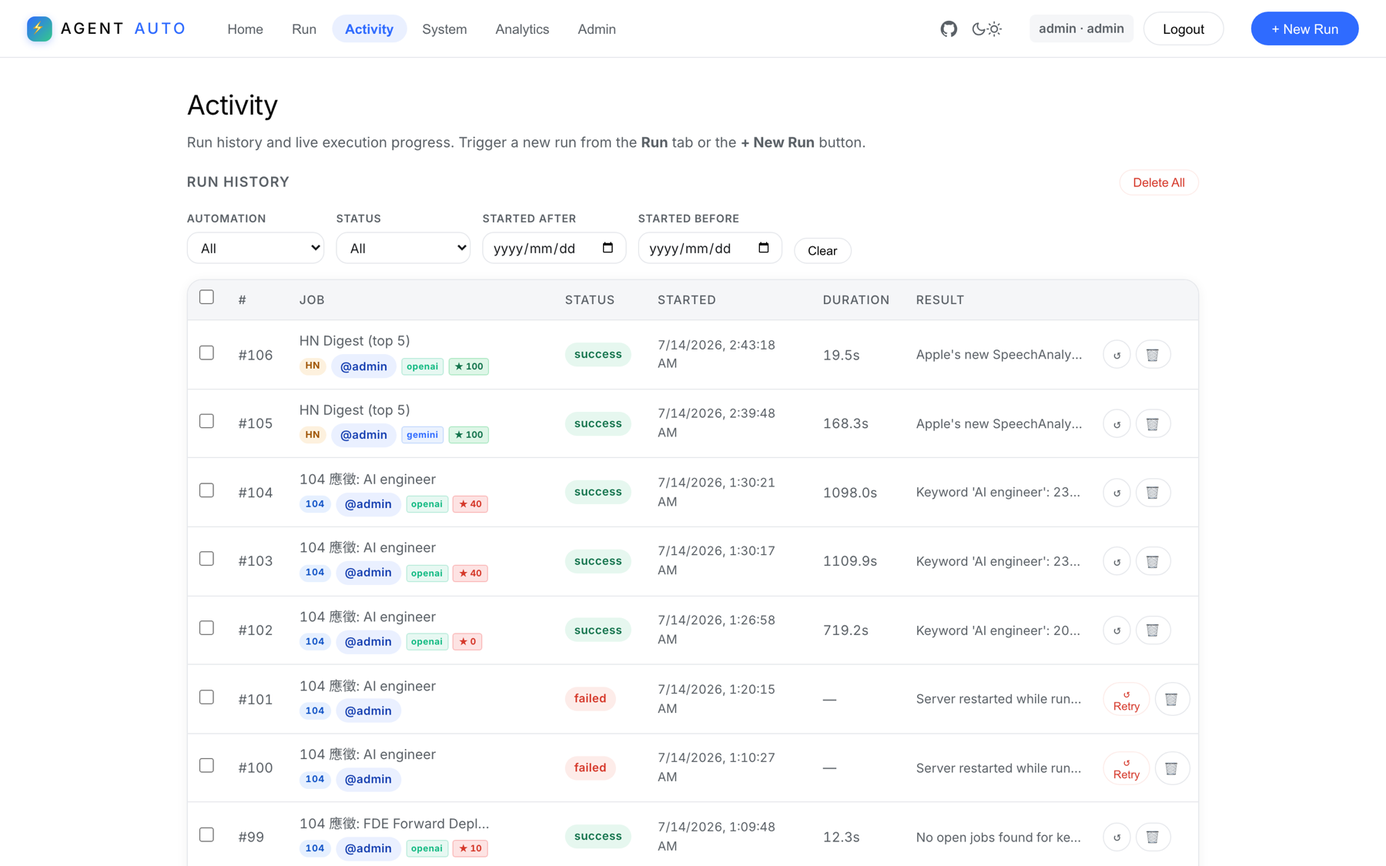
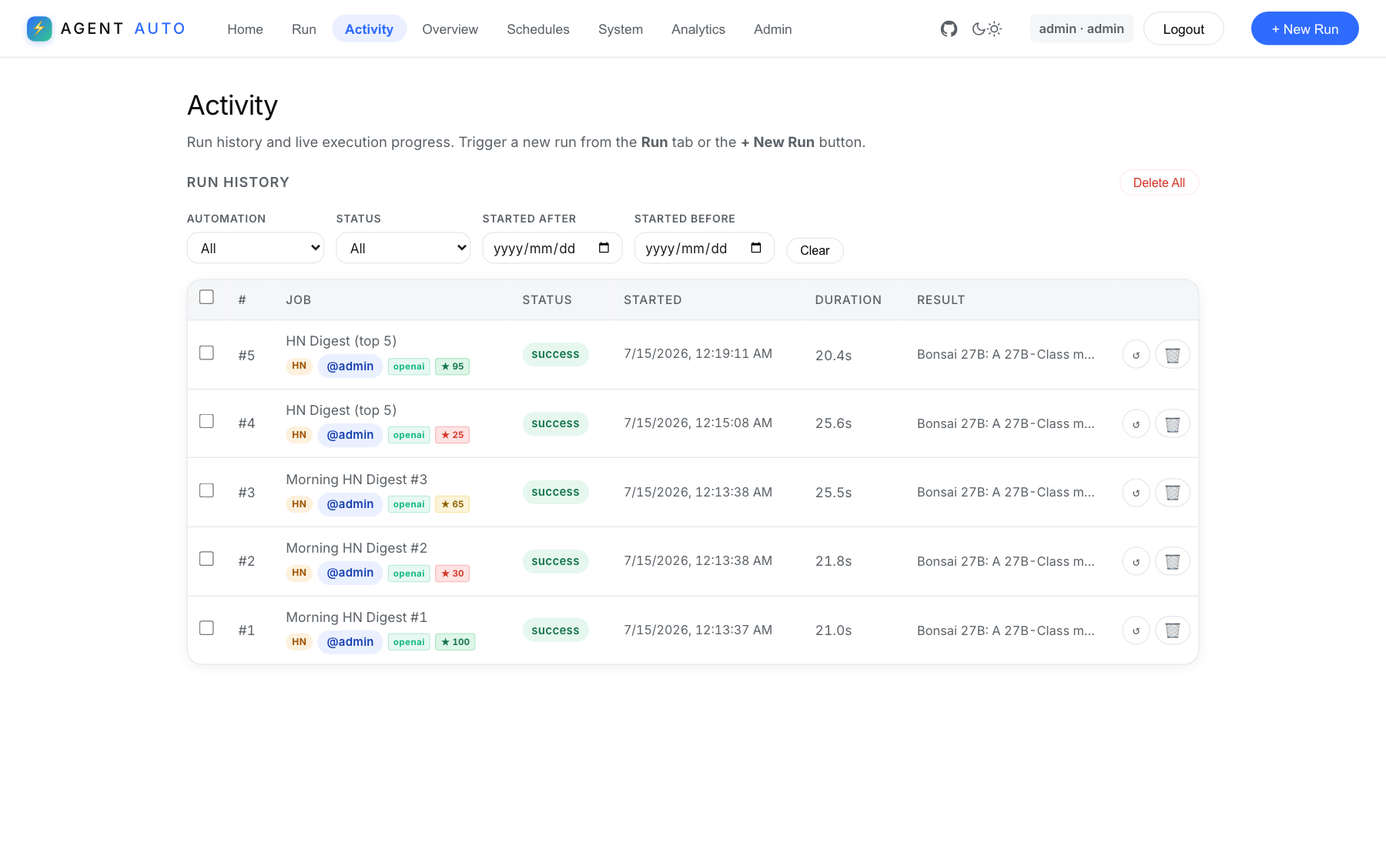
docs(site): expand tutorials with detailed steps + real screenshots (EN/中)
Enhance both docs pages with screenshot-driven walkthroughs captured from
the running app, in English and Traditional Chinese.

Developer guide (index.html): grow from 3 to 4 parts with a contents strip —
Set up & launch, Run your first automation (now covering the self-check /
retry / fallback loop and the Result/Flow/Log/Usage tabs), plus two new
parts: Track/retry/schedule (run history, Overview grid, cron) and
Administer/explore (users, encrypted keys, task toggles + judge model,
System catalog).

For-everyone page (for-you.html): add a "See it in action" visual
walkthrough (pick → fill → run → read) — previously had no screenshots.

i18n: add/update all zh-Hant strings; every data-i18n key on both pages
has a Chinese translation. Refresh 7 guide screenshots and add 6 new ones
(overview, schedules, system, admin users/keys/automations).

diff --git a/docs/index.html b/docs/index.html
@@ -301,6 +301,22 @@
   .anote code { font-family: var(--mono); font-size: 0.86em; color: #bcd0ff; background: rgba(47,107,255,0.14); padding: 1px 6px; border-radius: 5px; }
 
   /* ── Guide ── */
+  .guide-toc { display: grid; grid-template-columns: repeat(4, 1fr); gap: 12px; margin-bottom: 56px; }
+  @media (max-width: 820px) { .guide-toc { grid-template-columns: repeat(2, 1fr); } }
+  @media (max-width: 460px) { .guide-toc { grid-template-columns: 1fr; } }
+  .toc-item {
+    display: flex; align-items: center; gap: 12px; padding: 14px 16px;
+    background: var(--surface); border: 1px solid var(--border); border-radius: 12px;
+    color: var(--text); font-size: 14px; font-weight: 500; box-shadow: var(--shadow-rest);
+    transition: transform .25s var(--ease), box-shadow .25s var(--ease), border-color .25s var(--ease);
+  }
+  .toc-item:hover { transform: translateY(-2px); box-shadow: var(--shadow-hover); border-color: var(--accent); color: var(--ink); }
+  .toc-n {
+    width: 26px; height: 26px; border-radius: 50%; flex-shrink: 0; display: grid; place-items: center;
+    background: var(--accent); color: #fff; font-family: var(--mono); font-size: 12px; font-weight: 600;
+  }
+  .toc-n.moss { background: var(--moss); }
+  .toc-n.ink { background: var(--ink); }
   .guide-part { margin-bottom: 64px; }
   .guide-part:last-child { margin-bottom: 0; }
   .part-label {
@@ -595,7 +611,15 @@
     <div class="sec-head center reveal">
       <span class="kicker" data-i18n="guide.kicker">Guide</span>
       <h2 data-i18n="guide.h2">From zero to your <b>first scored run</b></h2>
-      <p class="lede" data-i18n="guide.lede">Download it, add a single AI key, and run a real automation in a few minutes. The walkthrough below uses real screenshots of the running app.</p>
+      <p class="lede" data-i18n="guide.lede">Download it, add a single AI key, and run a real automation in a few minutes — then learn to schedule, track, and administer it. Every step below uses real screenshots of the running app.</p>
+    </div>
+
+    <!-- Contents -->
+    <div class="guide-toc reveal">
+      <a href="#guide" class="toc-item"><span class="toc-n">1</span><span data-i18n="guide.toc.1">Set up &amp; launch</span></a>
+      <a href="#guide" class="toc-item"><span class="toc-n moss">2</span><span data-i18n="guide.toc.2">Run your first automation</span></a>
+      <a href="#guide" class="toc-item"><span class="toc-n">3</span><span data-i18n="guide.toc.3">Track, retry &amp; schedule</span></a>
+      <a href="#guide" class="toc-item"><span class="toc-n ink">4</span><span data-i18n="guide.toc.4">Administer &amp; explore</span></a>
     </div>
 
     <!-- Part 1 — Setup -->
@@ -669,45 +693,94 @@
           <div class="gnum">3</div>
           <div class="gbody">
             <h4 data-i18n="guide.p2.s3.h">Watch it run — live</h4>
-            <p data-i18n="guide.p2.s3.p">Hit <b>Run ▶</b> and you land on <b>Activity</b>. A live stream updates the step graph (Start → Validate → Fetch → Digest → Verify → Evaluate → Done) and adds log lines every half-second.</p>
-            <figure class="figure"><img src="assets/guide/05-running.png" alt="Live progress with step graph and streaming log" loading="lazy"/><figcaption data-i18n="guide.p2.s3.cap">Live progress — step graph on top, detailed log below</figcaption></figure>
+            <p data-i18n="guide.p2.s3.p">Hit <b>Run ▶</b> and you land on <b>Activity</b>. A half-second SSE stream lights up the step graph in order — <b>Start → Validate → Fetch → Digest → Verify → Evaluate → Done</b> — and appends log lines as they happen. Each node turns green as it completes and shows how long it took.</p>
+            <div class="note"><span class="ni">🔁</span><span data-i18n="guide.p2.s3.note">The <b>Validate</b> and <b>Verify</b> steps are the self-check: a rule inspects the output and, if it fails while retries remain, the task re-runs with the error handed back to the AI. A brief provider outage (503/429) silently falls back to a sibling model — you don't lose the run.</span></div>
+            <figure class="figure"><img src="assets/guide/05-running.png" alt="Live progress with step graph and streaming log" loading="lazy"/><figcaption data-i18n="guide.p2.s3.cap">Live progress — the step graph on top, the streaming log below</figcaption></figure>
           </div>
         </div>
         <div class="gstep">
           <div class="gnum">4</div>
           <div class="gbody">
             <h4 data-i18n="guide.p2.s4.h">Read the scored result</h4>
-            <p data-i18n="guide.p2.s4.p">When the run finishes, expand it to see the structured result under <b>Result</b>, plus <b>Flow</b>, <b>Log</b>, and <b>Usage</b> tabs and a <b>Copy JSON</b> button. An independent judge scored this run <b>★100</b>.</p>
-            <div class="note"><span class="ni">✅</span><span data-i18n="guide.p2.s4.note">This exact run: <code>hacker_news_digest</code> on <code>gpt-4o-mini</code> — finished in <b>19.5&nbsp;s</b>, checked, and scored <b>100/100</b> by an independent judge model.</span></div>
-            <figure class="figure"><img src="assets/guide/07-result-detail.png" alt="Expanded run result showing structured digest" loading="lazy"/><figcaption data-i18n="guide.p2.s4.cap">The digest result — <code>story_of_the_day</code> plus per-story title, score, url &amp; summary</figcaption></figure>
+            <p data-i18n="guide.p2.s4.p">When the run finishes, click the row to expand it. The <b>Result</b> tab holds the structured JSON; <b>Flow</b> shows the step timeline, <b>Log</b> the full stream, and <b>Usage</b> the model, tokens, and estimated cost. <b>Copy JSON</b> lifts the whole result to your clipboard. The green <b>★</b> badge is the independent judge's score.</p>
+            <div class="note"><span class="ni">✅</span><span data-i18n="guide.p2.s4.note">This exact run: <code>hacker_news_digest</code> on <code>gpt-4o-mini</code> — finished in <b>21&nbsp;s</b>, passed validation, and was scored <b>100/100</b> by an independent judge model (never the one that wrote the answer).</span></div>
+            <figure class="figure"><img src="assets/guide/07-result-detail.png" alt="Expanded run result showing structured digest" loading="lazy"/><figcaption data-i18n="guide.p2.s4.cap">The expanded run — status, provider &amp; ★ score on the row, structured <code>story_of_the_day</code> + per-story fields below</figcaption></figure>
           </div>
         </div>
       </div>
     </div>
 
-    <!-- Part 3 — Key features -->
+    <!-- Part 3 — Track, retry & schedule -->
     <div class="guide-part reveal">
-      <div class="part-label"><span class="pill-n ink">3</span><h3 data-i18n="guide.p3.label">Explore the key features</h3></div>
-      <p class="lede" style="margin-bottom:28px;max-width:60ch" data-i18n="guide.p3.intro">Once you have a few runs in, the rest of the app comes alive. Here's what to look at next.</p>
-      <div class="feat-grid">
-        <div class="feat">
-          <img src="assets/guide/06-result.png" alt="Run history with statuses, scores, and retry" loading="lazy"/>
-          <div class="fb"><h4 data-i18n="guide.p3.f1.h">Run history &amp; self-correcting retries</h4><p data-i18n="guide.p3.f1.p">Every run carries a status, a provider badge, and a quality score. Failed runs (e.g. "Server restarted while running") show a one-click <b>Retry</b> — and the previous error is handed back so the AI can fix itself.</p></div>
+      <div class="part-label"><span class="pill-n ink">3</span><h3 data-i18n="guide.p3.label">Track, retry &amp; schedule</h3></div>
+      <p class="lede" style="margin-bottom:28px;max-width:60ch" data-i18n="guide.p3.intro">A few runs in, the operational side comes alive: browse history, compare runs at a glance, and put a job on a cron so it runs itself.</p>
+      <div class="gsteps">
+        <div class="gstep">
+          <div class="gnum">1</div>
+          <div class="gbody">
+            <h4 data-i18n="guide.p3.s1.h">Browse run history &amp; retry failures</h4>
+            <p data-i18n="guide.p3.s1.p">The <b>Activity</b> table lists every run with its status, who ran it, the provider, a <b>★</b> quality score, duration, and a result preview. Filter by automation, status, or date. A <b>low score doesn't mean failure</b> — the run still succeeded; the score is your signal to double-check. Any failed run gets a one-click <b>↺ Retry</b> that hands the previous error back to the AI.</p>
+            <figure class="figure"><img src="assets/guide/06-result.png" alt="Run history table with scores, providers, and retry" loading="lazy"/><figcaption data-i18n="guide.p3.s1.cap">Run history — statuses, provider badges, and ★ scores from 25 to 100 across five real runs</figcaption></figure>
+          </div>
         </div>
-        <div class="feat">
-          <img src="assets/demo_2_4.png" alt="Analytics by provider and model" loading="lazy"/>
-          <div class="fb"><h4 data-i18n="guide.p3.f2.h">Analytics — cost &amp; quality</h4><p data-i18n="guide.p3.f2.p">The <b>Analytics</b> tab breaks runs down by task and by provider/model: success rate, average score, tokens, estimated cost, and average duration — all totalled server-side.</p></div>
+        <div class="gstep">
+          <div class="gnum">2</div>
+          <div class="gbody">
+            <h4 data-i18n="guide.p3.s2.h">Compare runs on the Overview grid</h4>
+            <p data-i18n="guide.p3.s2.p">The <b>Overview</b> tab is an Airflow-style grid: pick an automation and every run becomes a column, every step a row. Green is success, red failed, blue running, grey pending. Click any cell to jump to that step's log — perfect for spotting exactly where a run went sideways.</p>
+            <figure class="figure"><img src="assets/guide/08-overview.png" alt="Airflow-style task overview grid of steps across runs" loading="lazy"/><figcaption data-i18n="guide.p3.s2.cap">Task Overview — every step of every run, side by side (5 runs · 5 ok · 0 failed)</figcaption></figure>
+          </div>
         </div>
-        <div class="feat">
-          <img src="assets/demo_2_3.png" alt="System catalog of agents, tools, and crews" loading="lazy"/>
-          <div class="fb"><h4 data-i18n="guide.p3.f3.h">System catalog</h4><p data-i18n="guide.p3.f3.p">Inspect every agent, tool, and crew — roles, goals, backstories, and the real source config — straight from the <b>System</b> tab. Great for seeing how each automation is wired.</p></div>
-        </div>
-        <div class="feat">
-          <img src="assets/demo_2_5.png" alt="Admin page for users, keys, and toggles" loading="lazy"/>
-          <div class="fb"><h4 data-i18n="guide.p3.f4.h">Admin — users, keys &amp; switches</h4><p data-i18n="guide.p3.f4.p">Create users and choose which automations each may run, store encrypted API keys, pick the judge model, and turn task types on or off system-wide.</p></div>
+        <div class="gstep">
+          <div class="gnum">3</div>
+          <div class="gbody">
+            <h4 data-i18n="guide.p3.s3.h">Schedule it to run automatically</h4>
+            <p data-i18n="guide.p3.s3.p">Add a <b>cron expression</b> in the New Run dialog (or the presets dropdown) and the job is saved instead of run once — the built-in scheduler fires it on time, in UTC. The <b>Schedules</b> tab shows each job's cron, next fire time, run count, and last result, with <b>Run now</b>, <b>Edit</b>, and <b>Unschedule</b> controls.</p>
+            <figure class="figure"><img src="assets/guide/09-schedules.png" alt="Schedules tab with a daily cron job" loading="lazy"/><figcaption data-i18n="guide.p3.s3.cap">Schedules — a daily 08:00 UTC HN digest with its next-run time</figcaption></figure>
+          </div>
         </div>
       </div>
-      <div class="note" style="margin-top:24px"><span class="ni">🐳</span><span data-i18n="guide.p3.docker">Prefer containers? One command: <code>docker compose up --build -d</code>, then open <code>http://localhost:7000</code>. See the repo's <a href="https://github.com/yennanliu/agent_auto_system#docker-quick-start">Docker quick start</a> and <a href="https://github.com/yennanliu/agent_auto_system/blob/main/doc/aws-ecs-fargate-deployment.md">AWS ECS Fargate guide</a>.</span></div>
+    </div>
+
+    <!-- Part 4 — Administer & explore -->
+    <div class="guide-part reveal">
+      <div class="part-label"><span class="pill-n">4</span><h3 data-i18n="guide.p4.label">Administer &amp; explore</h3></div>
+      <p class="lede" style="margin-bottom:28px;max-width:60ch" data-i18n="guide.p4.intro">The <b>Admin</b> and <b>System</b> tabs are where you manage people, keys, and which tasks are live — and see exactly how each automation is wired.</p>
+      <div class="gsteps">
+        <div class="gstep">
+          <div class="gnum">1</div>
+          <div class="gbody">
+            <h4 data-i18n="guide.p4.s1.h">Create users &amp; scope their permissions</h4>
+            <p data-i18n="guide.p4.s1.p">Under <b>Admin → Users</b>, add teammates and choose exactly which automations each may run (or make them an admin). Accounts can be disabled, have passwords reset, or be deleted — and the app refuses to remove the last active admin.</p>
+            <figure class="figure"><img src="assets/guide/12-admin-users.png" alt="Admin users table with roles and allowed automations" loading="lazy"/><figcaption data-i18n="guide.p4.s1.cap">Admin → Users — roles, status, and per-user allowed automations</figcaption></figure>
+          </div>
+        </div>
+        <div class="gstep">
+          <div class="gnum">2</div>
+          <div class="gbody">
+            <h4 data-i18n="guide.p4.s2.h">Store API keys, encrypted</h4>
+            <p data-i18n="guide.p4.s2.p">Rather than editing <code>.env</code>, paste provider keys under <b>Admin → LLM Keys</b>. They're stored <b>Fernet-encrypted</b> and only decrypted at run time, overriding the environment. Each provider shows a <b>configured</b> / <b>not set</b> badge, whether the value came from <b>env</b>, and a masked preview.</p>
+            <figure class="figure"><img src="assets/guide/13-admin-keys.png" alt="Admin LLM keys panel with configured providers" loading="lazy"/><figcaption data-i18n="guide.p4.s2.cap">Admin → LLM Keys — OpenAI &amp; Gemini configured from env, Anthropic not set</figcaption></figure>
+          </div>
+        </div>
+        <div class="gstep">
+          <div class="gnum">3</div>
+          <div class="gbody">
+            <h4 data-i18n="guide.p4.s3.h">Toggle tasks &amp; pick the judge model</h4>
+            <p data-i18n="guide.p4.s3.p">The <b>Automations</b> tab is the master switch: a disabled task can't be created or run by <em>anyone</em>, admins included. Under <b>Verification LLM</b> you choose the independent judge model — kept separate from the models that produce results, so scores stay honest.</p>
+            <figure class="figure"><img src="assets/guide/14-admin-automations.png" alt="Admin automations toggles for every task type" loading="lazy"/><figcaption data-i18n="guide.p4.s3.cap">Admin → Automations — a system-wide on/off switch for every task type</figcaption></figure>
+          </div>
+        </div>
+        <div class="gstep">
+          <div class="gnum">4</div>
+          <div class="gbody">
+            <h4 data-i18n="guide.p4.s4.h">Inspect the System catalog &amp; Analytics</h4>
+            <p data-i18n="guide.p4.s4.p">The <b>System</b> tab exposes every agent, tool, crew, and workflow — roles, goals, backstories, and the real source config — so you can see how an automation is built without reading the repo. The <b>Analytics</b> tab totals runs, success rate, average score, tokens, and estimated cost, plus an eval-trust panel (independent-judge rate, retry/fallback rate, validation pass).</p>
+            <figure class="figure"><img src="assets/guide/10-system.png" alt="System catalog listing agents by automation" loading="lazy"/><figcaption data-i18n="guide.p4.s4.cap">System catalog — Agents, Tools, Crews &amp; Workflows, each tied to its automation</figcaption></figure>
+          </div>
+        </div>
+      </div>
+      <div class="note" style="margin-top:24px"><span class="ni">🐳</span><span data-i18n="guide.p4.docker">Prefer containers? One command: <code>docker compose up --build -d</code>, then open <code>http://localhost:7000</code>. See the repo's <a href="https://github.com/yennanliu/agent_auto_system#docker-quick-start">Docker quick start</a> and <a href="https://github.com/yennanliu/agent_auto_system/blob/main/doc/aws-ecs-fargate-deployment.md">AWS ECS Fargate guide</a>.</span></div>
     </div>
   </div>
 </section>

diff --git a/docs/assets/i18n.index.zh.js b/docs/assets/i18n.index.zh.js
@@ -127,7 +127,12 @@ window.I18N_ZH = {
 
   "guide.kicker": "上手指南",
   "guide.h2": "從零到你的<b>第一次評分執行</b>",
-  "guide.lede": "下載、加入一把 AI 金鑰，幾分鐘內就能跑一個真正的自動化。以下步驟採用實際執行畫面的截圖。",
+  "guide.lede": "下載、加入一把 AI 金鑰，幾分鐘內就能跑一個真正的自動化 —— 接著學會排程、追蹤與管理它。以下每一步都採用實際執行畫面的截圖。",
+
+  "guide.toc.1": "安裝與啟動",
+  "guide.toc.2": "跑你的第一個自動化",
+  "guide.toc.3": "追蹤、重試與排程",
+  "guide.toc.4": "管理與探索",
 
   "guide.p1.label": "安裝與啟動",
   "guide.p1.s1.h": "下載並安裝",
@@ -151,24 +156,41 @@ window.I18N_ZH = {
   "guide.p2.s2.p": "把 <b>Number of Stories</b> 設為 <code>5</code>，再挑供應商與模型。此範例用 <b>OpenAI · gpt-4o-mini</b> —— 又快又便宜。每個任務底層都帶有自己的 temperature。",
   "guide.p2.s2.cap": "每次執行都能在表單上選供應商與模型",
   "guide.p2.s3.h": "即時看它執行",
-  "guide.p2.s3.p": "按下 <b>Run ▶</b>，你會進到 <b>Activity</b>。即時串流會更新步驟圖（Start → Validate → Fetch → Digest → Verify → Evaluate → Done），並每半秒新增一行 log。",
-  "guide.p2.s3.cap": "即時進度 —— 上方為步驟圖，下方為詳細 log",
+  "guide.p2.s3.p": "按下 <b>Run ▶</b>，你會進到 <b>Activity</b>。每半秒的 SSE 串流會依序點亮步驟圖 —— <b>Start → Validate → Fetch → Digest → Verify → Evaluate → Done</b> —— 並隨事件附上 log。每個節點完成後轉為綠色，並顯示耗時。",
+  "guide.p2.s3.note": "<b>Validate</b> 與 <b>Verify</b> 兩步就是自我檢查：一條規則會檢驗輸出，若失敗且還有重試次數，任務會帶著錯誤回饋給 AI 並重跑。供應商短暫故障（503／429）時會安靜地備援到同系列模型 —— 你不會白做工。",
+  "guide.p2.s3.cap": "即時進度 —— 上方為步驟圖，下方為即時串流的 log",
   "guide.p2.s4.h": "閱讀已評分的結果",
-  "guide.p2.s4.p": "執行結束後展開它，即可在 <b>Result</b> 看到結構化結果，還有 <b>Flow</b>、<b>Log</b>、<b>Usage</b> 分頁與 <b>Copy JSON</b> 按鈕。一位獨立評審為這次執行打了 <b>★100</b>。",
-  "guide.p2.s4.note": "這次真實執行：<code>hacker_news_digest</code> 跑在 <code>gpt-4o-mini</code> 上 —— 在 <b>19.5&nbsp;秒</b>內完成、通過檢查，並由獨立評審模型評為 <b>100/100</b>。",
-  "guide.p2.s4.cap": "摘要結果 —— <code>story_of_the_day</code> 以及每則新聞的標題、分數、網址與摘要",
+  "guide.p2.s4.p": "執行結束後點一下該列即可展開。<b>Result</b> 分頁是結構化 JSON；<b>Flow</b> 顯示步驟時間軸、<b>Log</b> 為完整串流、<b>Usage</b> 列出模型、token 與估算成本。<b>Copy JSON</b> 可把整份結果複製到剪貼簿。綠色 <b>★</b> 標章就是獨立評審的分數。",
+  "guide.p2.s4.note": "這次真實執行：<code>hacker_news_digest</code> 跑在 <code>gpt-4o-mini</code> 上 —— 在 <b>21&nbsp;秒</b>內完成、通過驗證，並由獨立評審模型（絕非寫出答案的那一個）評為 <b>100/100</b>。",
+  "guide.p2.s4.cap": "展開後的執行 —— 該列顯示狀態、供應商與 ★ 分數，下方為結構化的 <code>story_of_the_day</code> 與各則新聞欄位",
 
-  "guide.p3.label": "探索重點功能",
-  "guide.p3.intro": "累積幾次執行後，應用的其餘部分就會活起來。以下是接著值得一看的地方。",
-  "guide.p3.f1.h": "執行紀錄與自我修正重試",
-  "guide.p3.f1.p": "每次執行都帶有狀態、供應商標章與品質分數。失敗的執行（例如「Server restarted while running」）會顯示一鍵 <b>Retry</b> —— 並把先前的錯誤回饋給 AI，讓它自我修正。",
-  "guide.p3.f2.h": "分析 —— 成本與品質",
-  "guide.p3.f2.p": "<b>Analytics</b> 分頁會依任務與供應商／模型拆解各次執行：成功率、平均分數、token、估算成本與平均耗時 —— 全在伺服器端加總。",
-  "guide.p3.f3.h": "系統目錄",
-  "guide.p3.f3.p": "直接從 <b>System</b> 分頁檢視每個 agent、工具與 crew —— 角色、目標、背景故事與真正的原始設定。很適合搞懂每個自動化怎麼接起來的。",
-  "guide.p3.f4.h": "管理後台 —— 使用者、金鑰與開關",
-  "guide.p3.f4.p": "建立使用者並選定各自可執行哪些自動化、儲存加密的 API 金鑰、挑選評審模型，並在系統層級開關任務類型。",
-  "guide.p3.docker": "偏好容器？一行指令：<code>docker compose up --build -d</code>，然後開啟 <code>http://localhost:7000</code>。詳見專案的 <a href=\"https://github.com/yennanliu/agent_auto_system#docker-quick-start\">Docker 快速開始</a> 與 <a href=\"https://github.com/yennanliu/agent_auto_system/blob/main/doc/aws-ecs-fargate-deployment.md\">AWS ECS Fargate 指南</a>。",
+  "guide.p3.label": "追蹤、重試與排程",
+  "guide.p3.intro": "跑過幾次後，維運面向就活了起來：瀏覽歷史、一眼比較各次執行，並用 cron 讓任務自己跑。",
+  "guide.p3.s1.h": "瀏覽執行紀錄並重試失敗",
+  "guide.p3.s1.p": "<b>Activity</b> 表格列出每次執行的狀態、執行者、供應商、<b>★</b> 品質分數、耗時與結果預覽。可依自動化、狀態或日期篩選。<b>分數低不代表失敗</b> —— 執行仍然成功，分數只是提醒你再確認一下。任何失敗的執行都有一鍵 <b>↺ Retry</b>，會把先前的錯誤回饋給 AI。",
+  "guide.p3.s1.cap": "執行紀錄 —— 五次真實執行的狀態、供應商標章，以及 25 到 100 的 ★ 分數",
+  "guide.p3.s2.h": "在 Overview 網格比較各次執行",
+  "guide.p3.s2.p": "<b>Overview</b> 分頁是 Airflow 風格的網格：挑一個自動化，每次執行成為一欄、每個步驟成為一列。綠色代表成功、紅色失敗、藍色執行中、灰色待處理。點任一格即可跳到該步驟的 log —— 最適合精準找出某次執行是在哪裡出錯的。",
+  "guide.p3.s2.cap": "任務總覽 —— 每次執行的每個步驟並排呈現（5 次執行 · 5 成功 · 0 失敗）",
+  "guide.p3.s3.h": "排程讓它自動執行",
+  "guide.p3.s3.p": "在 New Run 對話框（或預設下拉選單）加入 <b>cron 運算式</b>，任務就會被儲存而非立即執行 —— 內建排程器會依時間（UTC）觸發它。<b>Schedules</b> 分頁顯示每個任務的 cron、下次觸發時間、執行次數與最後結果，並提供 <b>Run now</b>、<b>Edit</b> 與 <b>Unschedule</b>。",
+  "guide.p3.s3.cap": "排程 —— 每天 08:00 UTC 的 HN 摘要及其下次執行時間",
+
+  "guide.p4.label": "管理與探索",
+  "guide.p4.intro": "<b>Admin</b> 與 <b>System</b> 分頁是你管理人員、金鑰與哪些任務上線的地方 —— 也能看清每個自動化是怎麼接起來的。",
+  "guide.p4.s1.h": "建立使用者並限定權限",
+  "guide.p4.s1.p": "在 <b>Admin → Users</b> 新增夥伴，並精確選定各自可執行哪些自動化（或設為管理員）。帳號可停用、重設密碼或刪除 —— 而且應用會拒絕移除最後一位在用的管理員。",
+  "guide.p4.s1.cap": "Admin → Users —— 角色、狀態與各使用者可用的自動化",
+  "guide.p4.s2.h": "加密儲存 API 金鑰",
+  "guide.p4.s2.p": "不必編輯 <code>.env</code>，可在 <b>Admin → LLM Keys</b> 貼上供應商金鑰。它們以 <b>Fernet 加密</b>儲存，僅在執行當下解密並覆蓋環境變數。每家供應商都會顯示 <b>configured</b>／<b>not set</b> 標章、值是否來自 <b>env</b>，以及遮罩後的預覽。",
+  "guide.p4.s2.cap": "Admin → LLM Keys —— OpenAI 與 Gemini 由 env 設定，Anthropic 未設定",
+  "guide.p4.s3.h": "開關任務並挑選評審模型",
+  "guide.p4.s3.p": "<b>Automations</b> 分頁是總開關：被停用的任務<em>任何人</em>（含管理員）都無法建立或執行。在 <b>Verification LLM</b> 你可選定獨立的評審模型 —— 與產出結果的模型分開，讓分數保持公正。",
+  "guide.p4.s3.cap": "Admin → Automations —— 每種任務類型的系統層級開關",
+  "guide.p4.s4.h": "檢視 System 目錄與 Analytics",
+  "guide.p4.s4.p": "<b>System</b> 分頁攤開每個 agent、工具、crew 與 workflow —— 角色、目標、背景故事與真正的原始設定 —— 不必翻原始碼就能看懂一個自動化怎麼構成。<b>Analytics</b> 分頁則加總執行數、成功率、平均分數、token 與估算成本，還有評分信任面板（獨立評審比例、重試／備援率、驗證通過率）。",
+  "guide.p4.s4.cap": "系統目錄 —— Agents、Tools、Crews 與 Workflows，各自對應到其自動化",
+  "guide.p4.docker": "偏好容器？一行指令：<code>docker compose up --build -d</code>，然後開啟 <code>http://localhost:7000</code>。詳見專案的 <a href=\"https://github.com/yennanliu/agent_auto_system#docker-quick-start\">Docker 快速開始</a> 與 <a href=\"https://github.com/yennanliu/agent_auto_system/blob/main/doc/aws-ecs-fargate-deployment.md\">AWS ECS Fargate 指南</a>。",
 
   "blog.kicker": "部落格系列",
   "blog.h2": "五篇<b>深入解析</b>",

diff --git a/docs/for-you.html b/docs/for-you.html
@@ -100,6 +100,21 @@
   .stepline h4 { font-size: 17px; font-weight: 600; color: var(--ink); margin-bottom: 5px; }
   .stepline p { color: var(--text-muted); font-size: 15px; }
 
+  .walk { display: grid; gap: 24px; max-width: 880px; margin: 0 auto; }
+  .wstep { background: var(--surface); border: 1px solid var(--border); border-radius: var(--radius); overflow: hidden; box-shadow: var(--shadow-rest);
+    transition: transform .3s var(--ease), box-shadow .3s var(--ease); }
+  .wstep:hover { transform: translateY(-3px); box-shadow: var(--shadow-hover); }
+  .wstep .wtop { display: grid; grid-template-columns: 40px 1fr; gap: 16px; align-items: start; padding: 22px 24px; }
+  .wstep .wn { width: 38px; height: 38px; border-radius: 50%; display: grid; place-items: center; background: var(--accent); color: #fff;
+    font-family: var(--mono); font-size: 15px; font-weight: 600; }
+  .wstep:nth-child(2n) .wn { background: var(--moss); }
+  .wstep h4 { font-size: 18px; font-weight: 600; color: var(--ink); margin-bottom: 4px; letter-spacing: -0.01em; }
+  .wstep .wtop p { color: var(--text-muted); font-size: 15px; }
+  .wstep img { width: 100%; height: auto; display: block; border-top: 1px solid var(--border); background: var(--bg-alt); }
+  .wnote { max-width: 880px; margin: 26px auto 0; display: flex; gap: 10px; padding: 14px 18px; border-radius: 12px;
+    font-size: 15px; line-height: 1.55; color: var(--text); background: var(--moss-soft); border-left: 3px solid var(--moss); }
+  .wnote b { color: var(--text); }
+
   .trust { display: grid; grid-template-columns: repeat(3, 1fr); gap: 20px; }
   @media (max-width: 860px) { .trust { grid-template-columns: 1fr; } }
   .tcard { background: var(--surface); border: 1px solid var(--border); border-radius: var(--radius); padding: 26px; }
@@ -145,6 +160,7 @@
   <a class="wordmark" href="index.html"><span class="dot"></span>Agent&nbsp;Auto&nbsp;System</a>
   <div class="nav-links">
     <a class="link" href="index.html#jobs" data-i18n="nav.jobs">What it does</a>
+    <a class="link" href="#walkthrough" data-i18n="nav.walk">See it</a>
     <a class="link" href="index.html#guide" data-i18n="nav.guide">Guide</a>
     <a class="link" href="index.html" data-i18n="nav.tech">For developers</a>
     <div class="lang-toggle" role="group" aria-label="Language">
@@ -216,6 +232,36 @@
       <div class="stepline"><div class="n">2</div><div><h4 data-i18n="how.s2.h">Press Run and watch it work</h4><p data-i18n="how.s2.p">The task runs in the background. You can watch each step happen live, or come back later — it keeps going without you.</p></div></div>
       <div class="stepline"><div class="n">3</div><div><h4 data-i18n="how.s3.h">Get a checked, scored result</h4><p data-i18n="how.s3.p">You get a clear answer, plus a quality score from a second AI that grades the work — so you know how much to trust it.</p></div></div>
     </div>
+  </div>
+</section>
+
+<!-- See it in action -->
+<section id="walkthrough">
+  <div class="shell">
+    <div class="sec-head center">
+      <span class="kicker" data-i18n="walk.kicker">See it in action</span>
+      <h2 data-i18n="walk.h2">A quick look, <b>step by step</b></h2>
+      <p class="lede" data-i18n="walk.lede">Here's exactly what it looks like to run one task, from start to finish — real screenshots, no jargon. This example gathers the day's top tech news.</p>
+    </div>
+    <div class="walk">
+      <div class="wstep">
+        <div class="wtop"><div class="wn">1</div><div><h4 data-i18n="walk.s1.h">Sign in and open the menu</h4><p data-i18n="walk.s1.p">You open the app in your browser and sign in. Then click <b>+ New Run</b> and a menu of ready-made tasks appears — pick the one you want (here, the news digest).</p></div></div>
+        <img src="assets/guide/03-picker.png" alt="The menu of ready-made tasks" loading="lazy"/>
+      </div>
+      <div class="wstep">
+        <div class="wtop"><div class="wn">2</div><div><h4 data-i18n="walk.s2.h">Answer a couple of questions, then press Run</h4><p data-i18n="walk.s2.p">Each task shows a short form. Here you just say how many stories you want. You can leave the AI settings as they are. When you're ready, press the blue <b>Run</b> button.</p></div></div>
+        <img src="assets/guide/04-form.png" alt="A short form with a Run button" loading="lazy"/>
+      </div>
+      <div class="wstep">
+        <div class="wtop"><div class="wn">3</div><div><h4 data-i18n="walk.s3.h">Watch it work — or walk away</h4><p data-i18n="walk.s3.p">The assistant gets to work and shows you each step as it happens, ticking them off one by one. You can watch along, or close the tab and come back later — it keeps going without you.</p></div></div>
+        <img src="assets/guide/05-running.png" alt="Live progress showing each step being completed" loading="lazy"/>
+      </div>
+      <div class="wstep">
+        <div class="wtop"><div class="wn">4</div><div><h4 data-i18n="walk.s4.h">Read your clear, checked answer</h4><p data-i18n="walk.s4.p">When it's done you get a tidy result — here, the top story of the day plus a short summary of each one. The green <b>★ score</b> is a second AI's mark out of 100, so you know how much to trust it.</p></div></div>
+        <img src="assets/guide/07-result-detail.png" alt="The finished result with a quality score" loading="lazy"/>
+      </div>
+    </div>
+    <div class="wnote"><span>✨</span><span data-i18n="walk.note">That's the whole loop — <b>pick, fill, run, read</b>. Every task in the app works the same friendly way, whether it's summarizing news, finding leads, or filling a form.</span></div>
   </div>
 </section>
 
@@ -302,6 +348,7 @@ window.I18N_ZH = {
   "promo.cta": "回到主頁 ↗",
 
   "nav.jobs": "能做什麼",
+  "nav.walk": "實際操作",
   "nav.guide": "上手指南",
   "nav.tech": "給開發者",
   "nav.cta": "立即開始",
@@ -343,6 +390,19 @@ window.I18N_ZH = {
   "how.s2.p": "任務會在背景執行。你可以即時看每個步驟，或稍後再回來 —— 沒有你它也會繼續跑。",
   "how.s3.h": "拿到已檢查、已評分的結果",
   "how.s3.p": "你會得到清楚的答案，加上由第二個 AI 評分的品質分數 —— 讓你知道能信任它多少。",
+
+  "walk.kicker": "實際操作一次",
+  "walk.h2": "快速看一遍，<b>一步一步來</b>",
+  "walk.lede": "以下就是執行一個任務從頭到尾的樣子 —— 真實截圖、沒有術語。這個例子會幫你彙整當天的熱門科技新聞。",
+  "walk.s1.h": "登入並打開選單",
+  "walk.s1.p": "你在瀏覽器打開這個應用並登入。接著點 <b>+ New Run</b>，就會出現一份現成任務的選單 —— 挑你要的那一個（這裡選新聞彙整）。",
+  "walk.s2.h": "回答一兩個問題，然後按執行",
+  "walk.s2.p": "每個任務都會顯示一張簡短表單。這裡你只要說要幾則新聞。AI 的設定可以維持原樣。準備好後，按下藍色的 <b>Run</b> 按鈕。",
+  "walk.s3.h": "看著它工作 —— 或走開去忙",
+  "walk.s3.p": "助手開始動工，並把每個步驟即時顯示給你看，一項一項打勾。你可以在旁邊看，也可以關掉分頁稍後再回來 —— 沒有你它也會繼續跑。",
+  "walk.s4.h": "閱讀清楚、已檢查的答案",
+  "walk.s4.p": "完成後你會得到一份整齊的結果 —— 這裡是當天的頭條加上每則的簡短摘要。綠色的 <b>★ 分數</b>是第二個 AI 打的 100 分制評分，讓你知道能信任它多少。",
+  "walk.note": "整個流程就這樣 —— <b>挑選、填寫、執行、閱讀</b>。應用裡的每個任務都用同樣親切的方式運作，無論是彙整新聞、尋找名單，還是填寫表單。",
 
   "trust.kicker": "為什麼可以信任它",
   "trust.h2": "它會<b>自我複查</b>",
